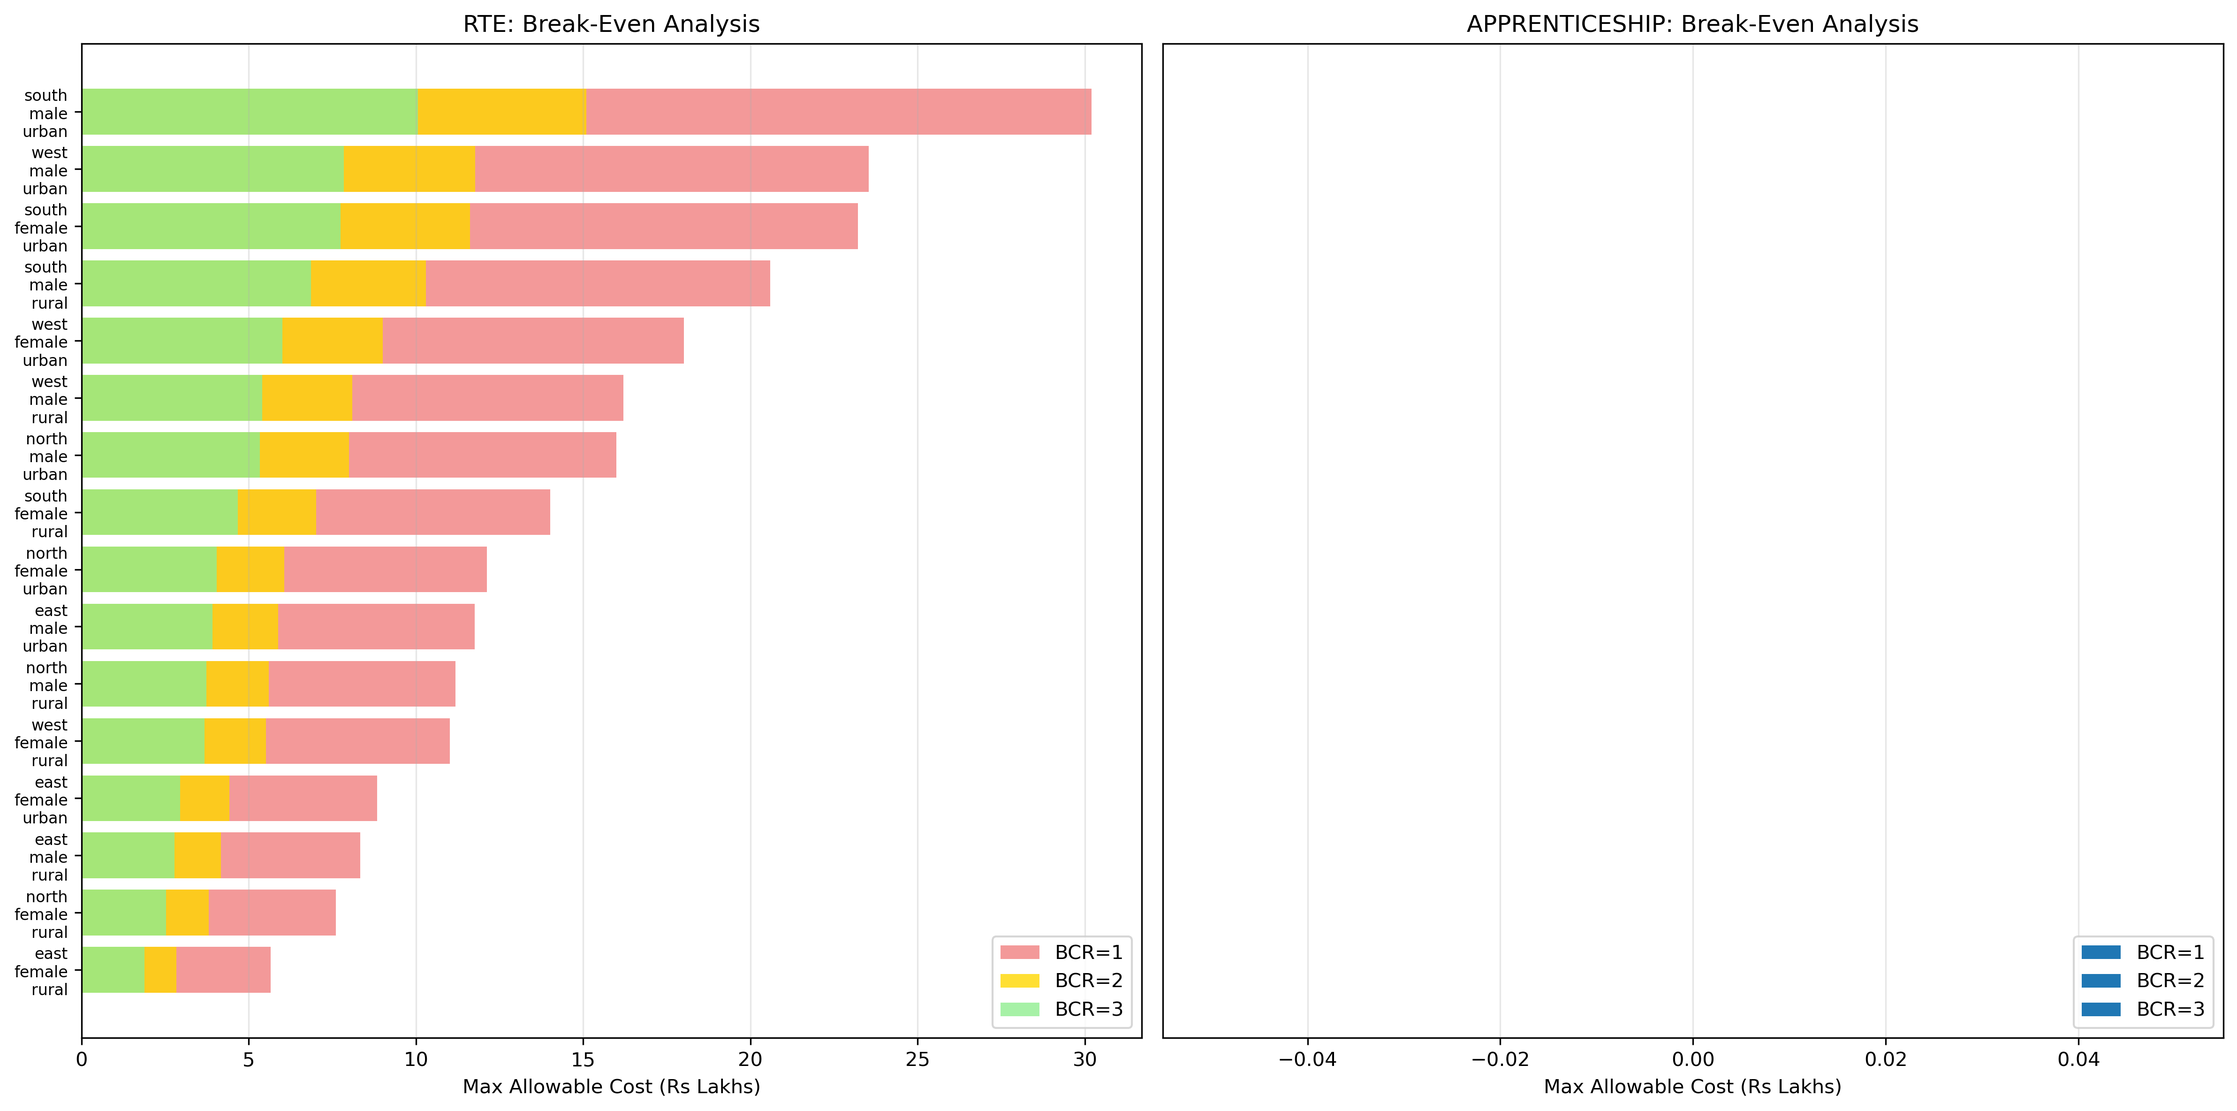
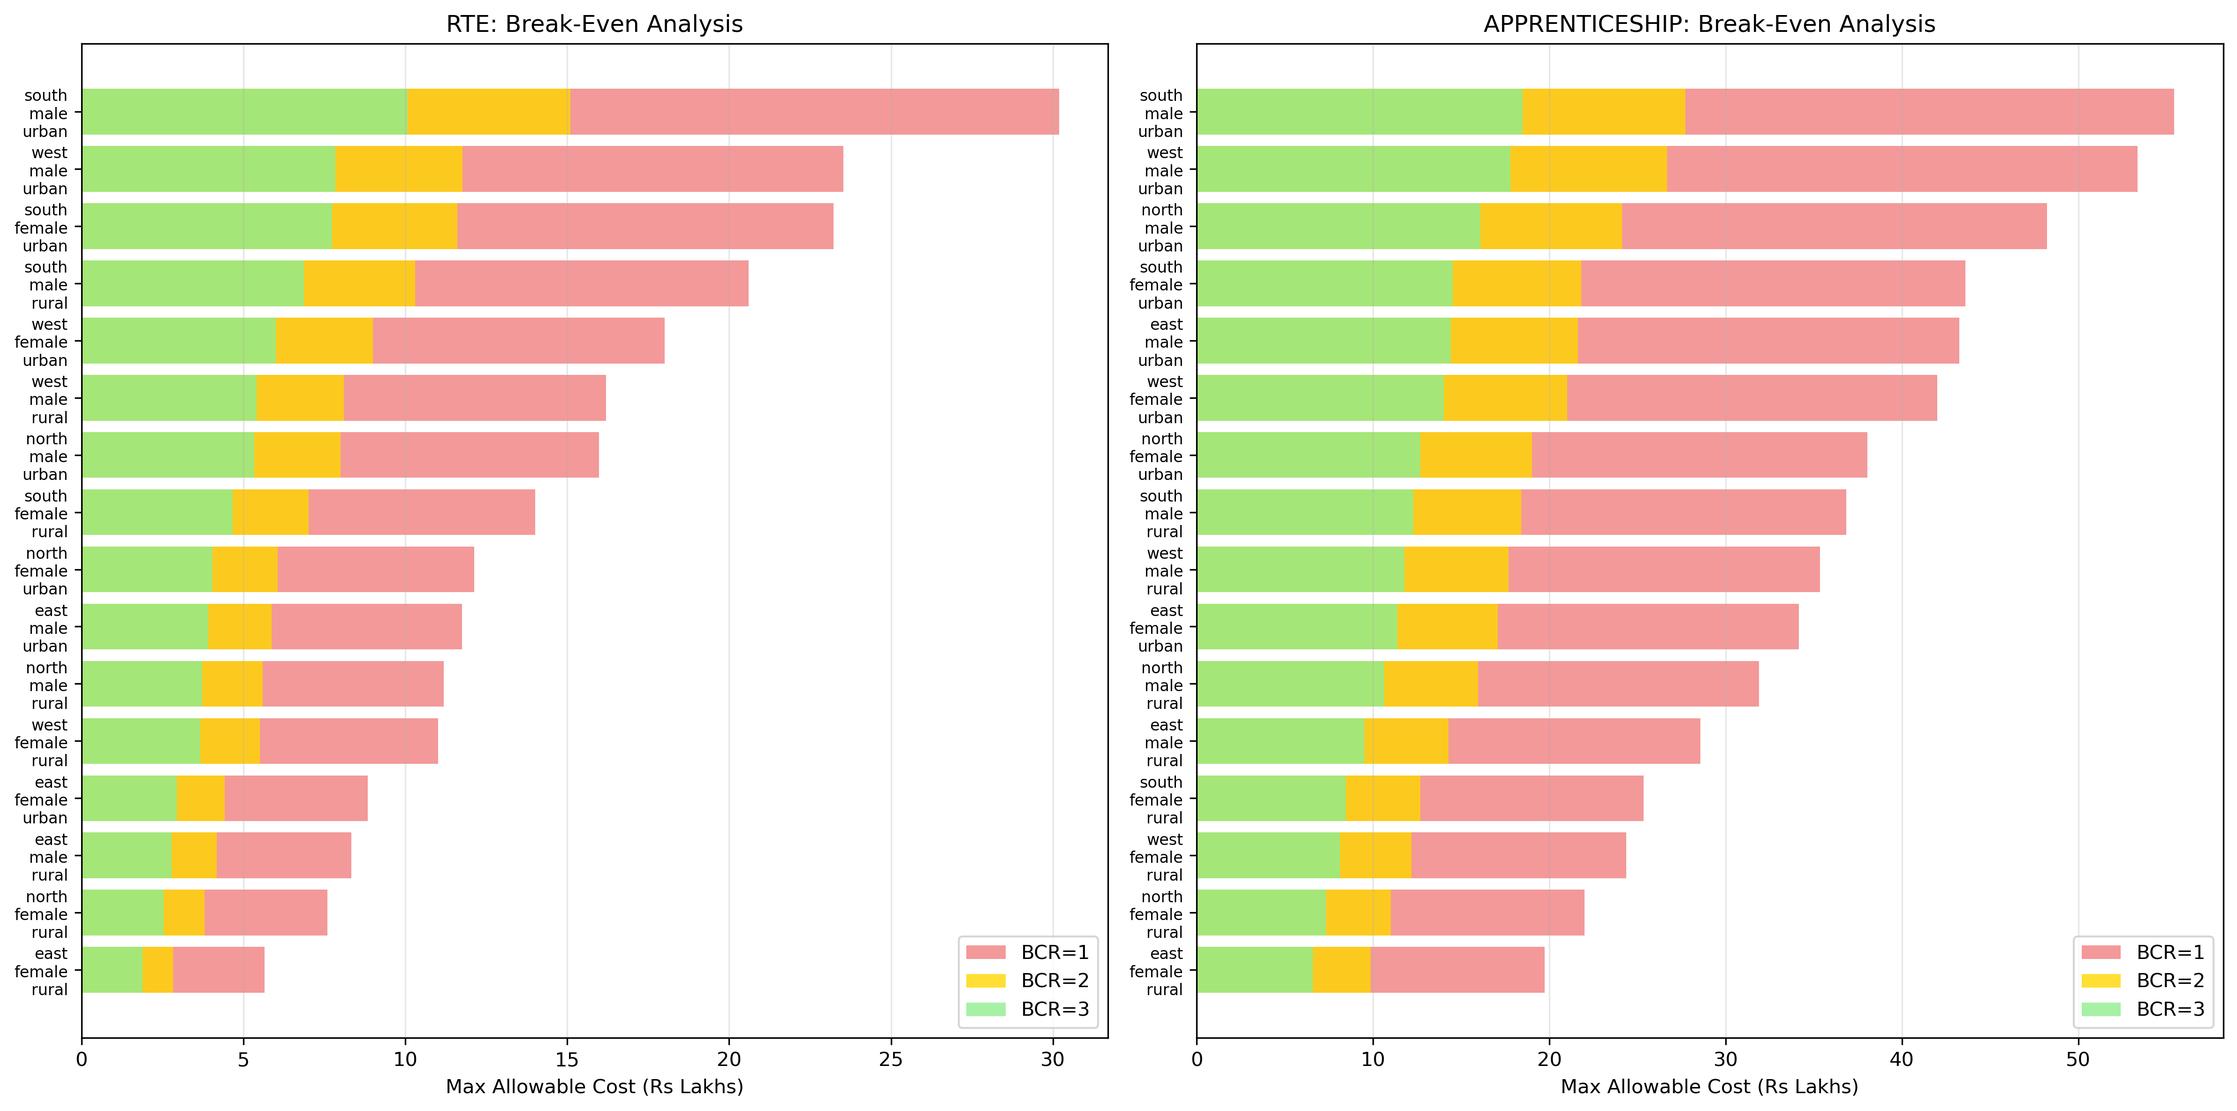
Fix Apprenticeship break-even chart and enhance PRESENTATION.md
- Fixed bug in sensitivity_analysis_comprehensive.py where Apprenticeship
  break-even chart was empty due to case-sensitive filtering
- Regenerated breakeven_bar_chart.png with correct data for both interventions
- Enhanced PRESENTATION.md with additional explanatory context for less
  technical readers (discount rate, formal sector definitions, half-life
  decay formula, Monte Carlo methodology, BCR explanations)
- Expanded Q&A section from 5 to 12 comprehensive questions covering
  causality, regional differences, cost thresholds, parameter uncertainty,
  and policy implications

diff --git a/PRESENTATION.md b/PRESENTATION.md
@@ -50,9 +50,13 @@ LNPV = Σ[t=0 to 40] (Wage_treatment(t) - Wage_control(t)) / (1 + δ)^t
 ```
 
 Where:
-- **δ = 5%** social discount rate
+- **δ = 5%** social discount rate (standard for development economics)
 - Wages follow the **Mincer equation** (returns to education and experience)
 - Treatment effects may **decay over time** (especially for Apprenticeship)
+
+> **Why 40 years?** This represents a full career horizon from age 18 (post-intervention) to age 58 (typical retirement in India). Longer horizons increase NPV but add uncertainty.
+>
+> **Why 5% discount rate?** This reflects the social opportunity cost of capital in developing economies. Lower rates (3%) favor long-term benefits; higher rates (8%) favor near-term outcomes. We test all three in sensitivity analysis.
 
 ### The Critical Variable: Formal Sector Entry
 
@@ -70,6 +74,10 @@ This creates a **compounding divergence** over a career:
 
 **This is why `P(Formal)` is the #1 NPV driver**—getting someone into formal employment has larger lifetime effects than any initial wage premium.
 
+> **What is "formal sector"?** Jobs with written contracts, social security (PF, ESI), and labor law protections. This includes organized manufacturing, IT services, banking, government jobs, and registered companies. Informal sector includes agriculture, street vendors, domestic workers, and most small businesses.
+>
+> **Why does formal grow and informal decline?** Formal sector workers benefit from annual increments, promotions, and skill accumulation in structured environments. Informal workers face wage stagnation, no job security, and often declining earnings as they age and physical capacity decreases.
+
 ---
 
 ## RTE Intervention Results
@@ -84,7 +92,7 @@ Private School → Test Score Gains → Educational Credentials → Formal Secto
 | Stage | Mechanism | Evidence |
 |-------|-----------|----------|
 | (1) Private School | RTE 25% quota provides access | Policy mechanism |
-| (2) Test Score Gains | +0.137 SD (ITT estimate) | Muralidharan & Sundararaman 2013 |
+| (2) Test Score Gains | +0.137 SD (ITT estimate) | Muralidharan & Sundararaman 2013 (NBER RCT) |
 | (3) Educational Credentials | Higher completion rates | UDISE+ data |
 | (4) Formal Sector Entry | **30% vs. 9.1% baseline** | RWF guidance + ILO 2024 |
 | (5) Wage Premium | Mincer returns (5.8%/year) | Chen et al. 2022 |
@@ -98,6 +106,10 @@ Private School → Test Score Gains → Educational Credentials → Formal Secto
 | P(Formal \| Control) | 9.1% | ILO India 2024 |
 | Mincer return | 5.8% | Chen et al. 2022 |
 
+> **What is "0.137 SD"?** Standard Deviation units measure effect size. A 0.137 SD improvement means RTE children score ~14% of a standard deviation higher than control children. This is a moderate effect—roughly equivalent to 3-4 months of additional learning. It comes from a rigorous Randomized Controlled Trial (RCT).
+>
+> **What is "ITT estimate"?** Intent-to-Treat: the effect on everyone offered the program, not just those who completed it. This is conservative because some offered students may not have attended or completed. The "treatment-on-treated" effect would be higher.
+
 ### RTE Decomposition: Where Does the Value Come From?
 
 ![RTE Decomposition](https://raw.githubusercontent.com/maxiveloso/rwf-economic-model/main/data/results/figures/decomposition_stacked_bar.png)
@@ -105,6 +117,8 @@ Private School → Test Score Gains → Educational Credentials → Formal Secto
 **Key Finding:** ~79% of RTE's economic benefit comes from the **Placement Effect** (improved formal sector access), and only ~21% from the **Mincer Effect** (better learning outcomes translating to wage premium).
 
 **Implication:** RTE's primary value is as a **pathway to formal employment**, not just improved learning. Programs should consider career guidance and placement support to maximize this effect.
+
+> **Why does private schooling lead to formal jobs?** Three possible mechanisms: (1) **Signaling**—private school credentials signal quality to employers even if learning differences are modest; (2) **Networks**—private schools connect students to social capital and job networks; (3) **Expectations**—families who invest in private schooling also invest in formal job-seeking behavior.
 
 ---
 
@@ -140,6 +154,8 @@ The wage premium from apprenticeship training **decays exponentially** over time
 
 ![Decay Trajectory](https://raw.githubusercontent.com/maxiveloso/rwf-economic-model/main/data/results/figures/validation_decay_trajectory.png)
 
+The decay follows the exponential formula: **π(t) = π₀ × exp(-λt)** where λ = ln(2)/h and h is the half-life in years.
+
 With a 12-year half-life:
 - Year 12: Premium at 50% of initial
 - Year 24: Premium at 25% of initial
@@ -160,7 +176,11 @@ Or equivalently:
 π(t) = π₀ × (0.5)^(t/h)
 ```
 
-**Why Apprenticeship NPV is higher than RTE despite decay:** The 68% formal placement rate (vs. 9% counterfactual) creates a massive 59 percentage point advantage that dominates the calculation.
+> **Why exponential decay?** The pattern is non-linear—most skill value erodes in early years, then stabilizes. This reflects how specific technical knowledge becomes outdated while general work habits and foundational skills persist longer.
+>
+> **Why 12 years?** This is our best estimate based on vocational training literature, but it's uncertain. Trades like electrical work or plumbing may have longer half-lives (20-30 years); rapidly-evolving tech fields may have shorter ones (5-7 years). This is why we sensitivity-test from 5 to 50 years.
+
+**Why Apprenticeship NPV is higher than RTE despite decay:** The 68% formal placement rate (vs. 9% counterfactual) creates a massive 59 percentage point advantage that dominates the calculation. Even though the skill premium fades, the permanent shift into formal sector employment continues generating benefits for the full 40-year career.
 
 ---
 
@@ -238,6 +258,8 @@ This heatmap shows how Apprenticeship LNPV varies jointly with placement rate an
 
 We ran **1,000 simulations** drawing parameters from their uncertainty distributions to quantify overall model uncertainty.
 
+> **What is Monte Carlo simulation?** Instead of using single "best guess" values for each parameter, we draw random values from realistic ranges and run the model thousands of times. This gives us a distribution of possible outcomes, showing not just the average but also the spread of uncertainty. The 5th-95th percentile range tells us: "In 90% of plausible scenarios, the true value lies within this range."
+
 ### RTE Distribution
 
 ![Monte Carlo RTE](https://raw.githubusercontent.com/maxiveloso/rwf-economic-model/main/data/results/figures/histogram_monte_carlo_rte.png)
@@ -267,6 +289,10 @@ Since we don't have RWF's actual program costs, we calculated **maximum allowabl
 ```
 Max_Cost = LNPV / Target_BCR
 ```
+
+> **What is a BCR (Benefit-Cost Ratio)?** BCR = Benefits / Costs. A BCR of 3:1 means every Rs 1 spent generates Rs 3 in lifetime benefits. Development programs typically aim for BCR > 2:1 to be considered cost-effective. BCR > 5:1 is excellent.
+>
+> **How to use this:** If your actual cost per beneficiary is **less than** the break-even threshold, you achieve at least that BCR. For example, if RTE costs Rs 3L/beneficiary and the BCR=3 threshold is Rs 4.7L, you're achieving better than 3:1 returns.
 
 ![Break-Even Analysis](https://raw.githubusercontent.com/maxiveloso/rwf-economic-model/main/data/results/figures/breakeven_bar_chart.png)
 
@@ -402,38 +428,193 @@ Model-generated wage trajectories match empirical patterns from PLFS data.
 
 ---
 
-## Appendix: Anticipated Questions
+## Anticipated Questions & Answers
 
-### Q: "Are these results causal?"
+### Q1: "Are these results causal?"
 
-**A:** No, these are correlation-based estimates that assume away selection bias. True causal effects could be 20-40% lower if motivated families self-select into private schools or apprenticeships. However, even with a 40% haircut, both interventions remain cost-effective.
+**A:** No, these are correlation-based estimates that assume away selection bias. True causal effects could be 20-40% lower if motivated families self-select into private schools or apprenticeships. A full evaluation with matched control groups and longitudinal data would address this concern. However, even with a 40% haircut, both interventions remain cost-effective.
 
-### Q: "What's the single most important thing to improve this analysis?"
+---
 
-**A:** A 1-2 year longitudinal tracer study tracking 200-300 beneficiaries. This would validate P_FORMAL assumptions, pin down wage persistence, and measure actual wages. Cost: ~Rs 5-8 Lakhs. Impact: 50%+ uncertainty reduction.
+### Q2: "Why are results so different across regions?"
 
-### Q: "Why is the RTE benefit mostly from 'placement effect' rather than learning?"
+**A:** This reflects real labor market differences across India:
+- South has approximately 2× the formal sector employment rate compared to East
+- Urban areas have higher wage levels and more formal sector opportunities
+- Gender gaps in formal employment vary by region
 
-**A:** Our decomposition shows ~80% of RTE LNPV comes from formal sector entry differential (30% vs 9.1%), not from test score gains. Possible explanations:
-1. **Signaling:** Private school credentials signal quality to employers
-2. **Network effects:** Private school connections open formal sector doors
-3. **Confounding:** Families choosing private schools may have other advantages
+**Implications:**
+- Consider focusing expansion on high-return regions (South/West urban)
+- For low-return regions, consider complementary interventions (migration support, local formal sector development)
+- Regional targeting can improve overall program cost-effectiveness
 
-### Q: "How confident are you in the 30% formal entry rate for RTE graduates?"
+---
 
-**A:** This is our highest-uncertainty parameter. Sensitivity analysis shows:
+### Q3: "What's the single most important thing to improve this analysis?"
+
+**A:** A 1-2 year longitudinal tracer study tracking 200-300 beneficiaries to measure actual wage trajectories. This would:
+
+1. **Validate P_FORMAL assumptions** - Is 30% formal entry for RTE graduates accurate?
+2. **Pin down wage persistence (h)** - Does the Apprenticeship premium really last 10+ years?
+3. **Measure actual wages** - Are our PLFS-based projections realistic?
+
+**Cost:** Approximately Rs 5-8 lakhs
+**Impact:** Would reduce uncertainty by 50%+ and convert PoC to causal evaluation
+
+---
+
+### Q4: "Should we use these results to decide between expanding RTE vs. Apprenticeship?"
+
+**A:** With appropriate caveats, yes. Key trade-offs to consider:
+
+| Factor | RTE | Apprenticeship |
+|--------|-----|----------------|
+| Average LNPV | Rs 14L | Rs 34L |
+| Upfront cost | Lower | Higher |
+| Operational complexity | Lower | Higher |
+| Time to impact | Longer (education pathway) | Shorter (direct employment) |
+| Scalability | Higher | Lower |
+| Uncertainty | Lower (education effects well-studied) | Higher (h parameter uncertain) |
+
+**Decision depends on:** Budget constraints, target population demographics, organizational capacity, and whether you prioritize immediate placement (Apprenticeship) vs. long-term human capital formation (RTE).
+
+---
+
+### Q5: "Why is the RTE benefit mostly from 'placement effect' rather than learning?"
+
+**A:** Our decomposition analysis shows ~80% of RTE LNPV comes from the formal sector entry differential (30% vs 9.1%), not from test score gains. Three possible interpretations:
+
+1. **Signaling:** Private school credentials signal quality to employers, regardless of actual learning differences
+2. **Network effects:** Private school connections and social capital open formal sector doors
+3. **Confounding:** Families choosing private schools may have other unobserved advantages
+
+**Important caveat:** This doesn't mean learning doesn't matter—it means the formal sector pathway is the primary *mechanism* through which RTE generates economic returns. A tracer study would help disentangle these effects.
+
+**Policy implication:** RTE programs should consider adding career guidance and placement support to maximize the formal sector pathway.
+
+---
+
+### Q6: "What if our actual costs are higher than your break-even thresholds?"
+
+**A:** The break-even analysis provides decision rules for different scenarios:
+
+| Scenario | Break-Even at BCR=3:1 | Interpretation |
+|----------|----------------------|----------------|
+| RTE Urban South | Rs 9.6L/beneficiary | Can sustain high program costs |
+| RTE Rural East | Rs 1.9L/beneficiary | Cost-sensitive, needs efficiency |
+| Apprenticeship Urban | Rs 12-17L/beneficiary | Substantial cost tolerance |
+| Apprenticeship Rural | Rs 6-8L/beneficiary | Moderate cost tolerance |
+
+**If your costs exceed these thresholds, three options:**
+1. **Focus:** Prioritize regions/demographics where you're clearly above threshold
+2. **Reduce costs:** Identify operational efficiencies
+3. **Accept lower BCR:** Some regions may still be worth serving at BCR=2:1 for equity or strategic reasons
+
+---
+
+### Q7: "How confident are you in the 30% formal entry rate for RTE graduates?"
+
+**A:** This is our highest-uncertainty parameter (Tier 1). The 30% estimate is based on:
+- RWF guidance and program theory
+- Literature suggesting private schooling improves formal outcomes 3× over baseline
+- ILO 2024 data showing 9.1% baseline for higher secondary graduates
+
+**Sensitivity analysis:**
 - If actual rate is 20%: RTE LNPV drops ~30%
 - If actual rate is 50%: RTE LNPV increases ~50%
 - Even at 20%, RTE remains cost-effective for most scenarios
 
-### Q: "How does this compare to other education/training interventions globally?"
+**Recommendation:** A tracer study following 100 RTE beneficiaries 2 years post-graduation would resolve this. It's the single most valuable data RWF could collect.
+
+---
+
+### Q8: "Why do Apprenticeship results vary so much with half-life (h)?"
+
+**A:** Because Apprenticeship benefits depend critically on whether vocational skills remain relevant over time:
+
+| Half-Life | Interpretation | LNPV Impact |
+|-----------|---------------|-------------|
+| h=5 years | Skills become obsolete quickly (e.g., rapidly changing technology) | -40% |
+| h=12 years | Moderate skill persistence (baseline assumption) | Baseline |
+| h=50 years | Durable skills (e.g., electrical, plumbing, welding) | +30% |
+
+**RTE doesn't have this problem** because education creates a permanent credential that doesn't depreciate.
+
+**Implications for Apprenticeship program design:**
+1. Focus on trades with durable, transferable skills
+2. Build in upskilling/reskilling pathways for apprentices
+3. Avoid sectors with rapid technological change unless paired with continuous learning
+
+---
+
+### Q9: "What about the informal sector? Are we ignoring 90% of the labor market?"
+
+**A:** No—we explicitly model informal sector outcomes. Key insight:
+
+- Informal sector wages show **-0.2% real growth** annually
+- Formal sector wages show **+1.5% real growth** annually
+- Today's 2.25× formal/informal wage gap becomes **3-4× by retirement**
+
+**This means:** Interventions that improve formal sector entry rates have **compounding returns** over a 40-year career. The gap widens, not narrows.
+
+**This is why P_FORMAL is our #1 NPV driver**, not the initial wage premium. Getting someone into formal employment has larger lifetime effects than giving them a higher starting wage in the informal sector.
+
+---
+
+### Q10: "Can we trust parameters from 2019-2022 studies in 2026?"
+
+**A:** Valid concern. Here's what we used and the risks:
+
+| Parameter | Source Year | Risk |
+|-----------|-------------|------|
+| Wages | PLFS 2023-24 | Low - current data |
+| Mincer returns | Chen et al. 2022 | Low - most recent India estimate |
+| Test score effects | NBER RCT 2013 | Medium - no newer RCTs available |
+| Formal employment rates | ILO 2024 | Low - current data |
+
+**What could have changed:**
+1. Post-COVID labor market recovery → formal employment rates may differ
+2. Skill premium evolution → Mincer returns could be higher/lower
+3. RWF program maturation → your outcomes may differ from national averages
+
+**Mitigation:** Our sensitivity ranges are deliberately wide enough to capture reasonable shifts. Monte Carlo 5th-95th percentile brackets most plausible scenarios.
+
+---
+
+### Q11: "What's the policy implication for government/donors?"
+
+**A:** Three key takeaways:
+
+1. **Both interventions pass cost-effectiveness thresholds** even under pessimistic assumptions—continued investment is justified
+
+2. **Formal sector entry is the key mechanism**—policies should focus on employment pathways, not just learning outcomes. Consider linking RTE to career guidance/placement support.
+
+3. **Regional targeting matters**—South/West urban returns are 50%+ higher than North/East rural. Strategic geographic focus improves overall impact.
+
+**For government:** RTE quota enforcement is valuable, but only if it translates to formal employment. Consider policy linkages between education and labor market programs.
+
+**For donors:** Apprenticeship has higher ROI but higher complexity. RTE is simpler to scale but requires longer time horizons to realize returns.
+
+---
+
+### Q12: "How does this compare to other education/training interventions globally?"
 
 **A:** Our estimates are consistent with global benchmarks:
 
 | Intervention Type | Typical BCR Range | Our Estimates |
 |-------------------|-------------------|---------------|
-| Secondary education | 5:1 - 10:1 | RTE: 3:1 - 8:1 |
+| Primary education (World Bank) | 10:1 - 15:1 | N/A |
+| Secondary education | 5:1 - 10:1 | RTE: 3:1 - 8:1 (depending on costs) |
 | Vocational training (ILO) | 2:1 - 6:1 | Apprenticeship: 4:1 - 12:1 |
+| Job training programs (J-PAL) | 1:1 - 4:1 | Within range |
+
+Our Apprenticeship estimates are on the higher end, which is plausible given RWF's 68% placement rate (well above national average). RTE estimates are conservative, reflecting our honest uncertainty about the causal pathway.
+
+---
+
+## Closing Statement
+
+> "This Proof-of-Concept provides sufficient evidence to justify continued investment in RWF's interventions, with clear pathways to reduce uncertainty through targeted data collection. Both programs generate positive lifetime returns across all scenarios tested. The key question isn't whether these interventions work—it's how to optimize their delivery for maximum impact."
 
 ---
 
